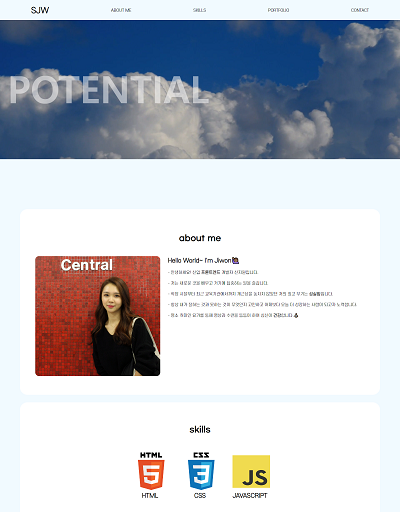
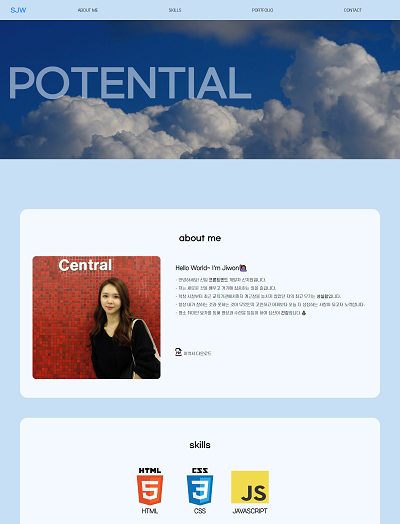
0114

diff --git a/css/css.css b/css/css.css
@@ -5,17 +5,13 @@
     font-style: normal;
 }
 
-@font-face {
-    font-family: 'GmarketSansMedium';
-    src: url('https://cdn.jsdelivr.net/gh/projectnoonnu/noonfonts_2001@1.1/GmarketSansMedium.woff') format('woff');
-    font-weight: normal;
-    font-style: normal;
-}
 
 :root{
-    --background-color: 
-
-
+    --background-color: #C7DFF5;
+    --inner-color: #F3F9FF;
+    --highlight-color: #3192fa;
+    --btn-color: #8CAFCE; /*#8CAFCE*//*#BEC8E3*/
+    --line-color: #BBC1C6; /*#BBC1C6*//* #BCC2C8*/
 }
 
 
@@ -35,7 +31,7 @@ a{
     color: initial;
 }
 body{
-    background-color: #F1FAFF;
+    background-color: var(--background-color)
 }
 
 
@@ -46,7 +42,7 @@ body{
     height: 80px;
     position: fixed;
     align-items: center;
-    background-color: #F1FAFF;
+    background-color: var(--background-color);
     padding: 8px 12px; 
     z-index: 9999;
     justify-content: space-between;
@@ -57,8 +53,8 @@ body{
     width: 10%;
 }
 .navbar_logo a{
-    font-family: 'GmarketSansMedium';
-    color: #0095FA;
+    font-family: 'Noto Sans';
+    color: var(--highlight-color);
     margin: 30px;
 }
 .navbar_menu{
@@ -72,7 +68,7 @@ body{
     padding: 8px 12px;
 }
 .navbar_menu li a:hover{
-    color: #0095FA;
+    color: var(--highlight-color);
     font-weight: bold;
 }
 .navbar_toogleBtn{
@@ -80,7 +76,7 @@ body{
     position: absolute;
     right: 22px;
     font-size: 24px;
-    color: #0095FA;
+    color: var(--highlight-color);
 }
 
 
@@ -103,15 +99,27 @@ figure video{
 figure .inner {
 	width: 100%;
 	position: relative;
-    top: 250px;
+    top: 200px;
     left: 30px;
-    opacity: 0.5;
 }
+
+
+
 figure .inner h1{
-    color: white;
-    font-weight: bold;
-    font-size: 150px;
-    font-family: 'GmarketSansMedium';
+    color: var(--inner-color);
+    /* font-weight: bold; */
+    font-size: 200px;
+    font-family: 'Noto Sans';
+    opacity: 0;
+    /* letter-spacing: 30px; */
+
+    
+}
+@keyframes fade{
+    to{
+        opacity: 0.8;
+    }
+
 }
 
 
@@ -124,7 +132,7 @@ main{
 main .inner{
     width: 90%;
     margin: 0 auto;
-    background-color: white;
+    background-color: var(--inner-color);
     margin-bottom: 80px;
     border-radius: 30px;
     padding: 20px 20px 70px 20px ;
@@ -132,7 +140,7 @@ main .inner{
 main .inner h1{
     text-align: center;
     font-weight: bold;
-    font-family: 'GmarketSansMedium';
+    font-family: 'Anton';
     margin: 70px 0 50px 0;
 }
 
@@ -197,16 +205,16 @@ main #portfolio .portfolio{
 }
 main #portfolio .portfolio .hanmadang{
     margin-right: 50px;
-    width: 400px;
+    width: 40%;
 }
 main #portfolio .portfolio .index{
-    width: 400px;
+    width: 40%;
 }
 main #portfolio .portfolio img{
-    width: 400px;
+    width: 80%;
     height: 500px;
     border-radius: 10px;
-    outline: 1px solid rgb(236, 236, 236);
+    border: 1px solid var(--line-color);
 }
 main #portfolio .portfolio h3{
     margin: 10px 0;
@@ -217,8 +225,8 @@ main #portfolio .portfolio  ul{
     margin: 10px 0;
 }
 main #portfolio .portfolio li {
-    outline: 1px solid #7C9EC0;
-    background-color: #B2D4F9;
+    /* outline: 1px solid #7C9EC0; */
+    background-color: var(--btn-color);
     width: 80px;
     border-radius: 3px;
     padding: 3px 0;
@@ -246,7 +254,7 @@ footer{
 footer a i{
     margin: 20px 0;
     font-weight: bold;
-    color: #0095FA;
+    color: #0049A5/*var(--highlight-color);*/
 }
 
 
@@ -268,19 +276,19 @@ footer a i{
         flex-direction: column;
         align-items: center;
         width: 100%;
-        background-color: #F1FAFF;
+        background-color: var(--background-color);
     }
     .navbar_menu li{
         width: 100%;
         text-align: center;
-        background-color: #F1FAFF;
+        background-color: var(--background-color);
     }
     .navbar_menu li:hover{
         width: 100%;
-        background-color: #0095FA;
+        background-color: var(--highlight-color);
     }    
     .navbar_menu li a:hover{        
-        color: white;
+        color: var(--inner-color);
     }
     .navbar_toogleBtn{
         display: block;
@@ -335,11 +343,12 @@ footer a i{
         height: 50%;
     }
     main #portfolio .portfolio img{
-        width: 100%;
+        width: 90%;
+        height: 80%;
         border-radius: 10px;
     }
     main #portfolio .portfolio li {
-        background-color: #B2D4F9;
+        background-color: var(--btn-color);
         width: 80px;
         border-radius: 3px;
         padding: 3px 0;

diff --git a/index.html b/index.html
@@ -7,7 +7,10 @@
     <title>신지원의 포트폴리오</title>
     <link rel="stylesheet" href="css/css.css">
     <script src="//code.jquery.com/jquery-3.3.1.min.js"></script>
-    <script src="https://kit.fontawesome.com/904a346929.js" crossorigin="anonymous"></script>
+    <script src="https://kit.fontawesome.com/904a346929.js" crossorigin="anonymous"></script>    
+    <link rel="preconnect" href="https://fonts.googleapis.com">
+    <link rel="preconnect" href="https://fonts.gstatic.com" crossorigin>
+    <link href="https://fonts.googleapis.com/css2?family=Anton&family=IBM+Plex+Serif:wght@300&family=Monoton&family=Noto+Sans&family=Questrial&display=swap" rel="stylesheet">
     <script src="js/js.js" defer></script>
 
 </head>
@@ -121,7 +124,7 @@
                 <h1>contact</h1>
                 <div class="contact">
                     <P><i class="fa-solid fa-envelope"></i>xxinjiwon@gmail.com</P>
-                    <P><i class="fa-brands fa-github"></i>jiwon's <a href="https://github.com/shineG1"><strong style="color: #0095FA;"><u>github</u></strong></a></P>
+                    <P><i class="fa-brands fa-github"></i>jiwon's <a href="https://github.com/shineG1" target='_blank'><strong style="color: #3192fa;"><u>github</u></strong></a></P>
                 </div>
             </div>
         </main>

diff --git a/js/js.js b/js/js.js
@@ -17,3 +17,12 @@ $(document).ready(function($) {
     });
   
   });
+
+
+ const introText = document.querySelectorAll("h1");
+
+window.onload = () => {
+  introText.forEach((item) => {
+    item.style.animation = `fade 3000ms forwards`;
+  });
+};
